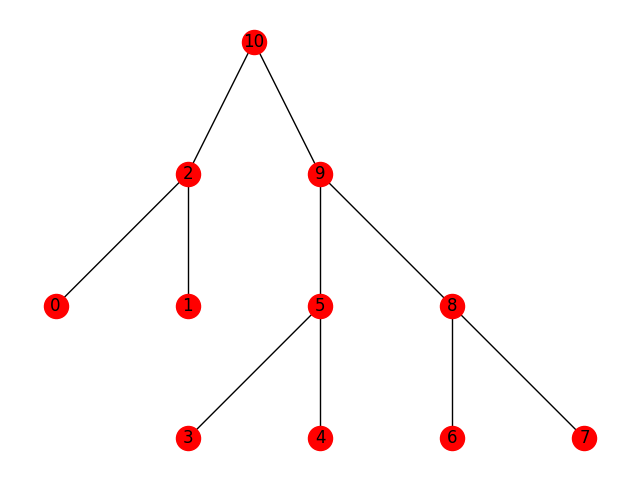
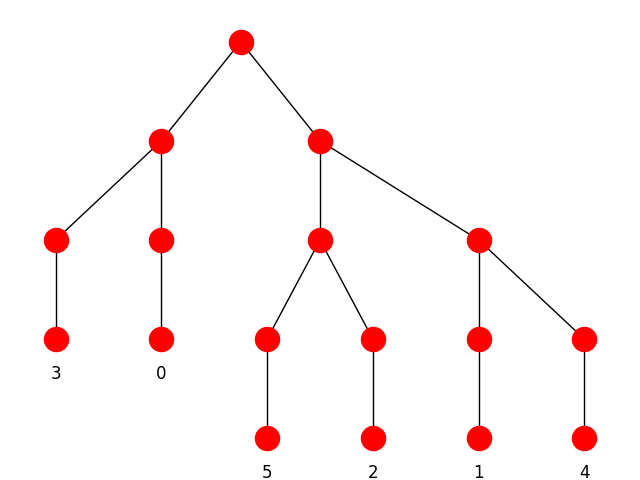
pysical modes graphically included

diff --git a/GUI/controller.py b/GUI/controller.py
@@ -38,12 +38,13 @@ class MainW(QMainWindow,
     def __init__(self, parent=None):
         super(MainW, self).__init__(parent)
         self.setupUi(self)
+
         self.setConfig = None
         self.setSystem = None
+
         self.ModelTree = None # will be object of ModelTree()
-        self.LogicalNodes = LogicalNodes() #object
-        self.View = View() #object
-        self.G = None # will be DiGraphs object
+#        self.LogicalNodes = LogicalNodes() #object
+#        self.G = None # will be DiGraphs object
 
         self.connect(self.actionLoad_Configuration, SIGNAL("activated()"), self.BrowserCon)
         self.connect(self.actionLoad_System, SIGNAL("activated()"), self.BrowserSys)
@@ -61,10 +62,12 @@ class MainW(QMainWindow,
 
             self.ModelTree = ModelTree()
 
-        self.ModelTree.getLayerMatr() #calculates list - layer_matr
-        self.G = self.LogicalNodes.Networkx(self.ModelTree.layer_matr) #connects nodes according to layer_matr
-        self.View.Display(self.G) #View method Display() generated .png file
-#        time.sleep(15)
+        self.LogicalNodes = LogicalNodes(self.ModelTree.lay_matr_mode) #object
+
+#        self.ModelTree.getLayerMatr() #calculates list - layer_matr
+#        self.G = self.LogicalNodes.Networkx(self.ModelTree.layer_matr) #connects nodes according to layer_matr
+        self.View = View(self.ModelTree.label_mode) #object
+        self.View.Display(self.LogicalNodes.G) #View method Display() generated .png file
         self.ShowPng = ShowPng()
         self.ShowPng.show()
 

diff --git a/GUI/ModelTree.py b/GUI/ModelTree.py
@@ -9,12 +9,18 @@ class ModelTree(object):
         self.layer_list = []
         self.layer_matr = []
         self.lay_matr_mode = []
+        self.label_mode = {}
+
         self.config = mctdh.controlParameters()
         self.config.initialize(self.config_file)
         self.basis = mctdh.MctdhBasis()
         self.basis.initialize(self.sys_file, self.config)
         self.node = mctdh.MctdhNode()
         self.phys = mctdh.PhysCoor()
+
+        self.getLayerMatr()
+        self.getPhysCoord()
+        self.modeToGetLayer()
 
     def getBottomlayer(self):
         """Get the bottom nodes"""
@@ -48,15 +54,20 @@ class ModelTree(object):
 
     def modeToGetLayer(self):
         """Combines layer_matr with mode_list"""
-        self.lay_matr_mode = [(l_.append(self.mode_list)) for i,l_ in enumerate(self.layer_matr)]
+        self.lay_matr_mode = [l_ + [100 + i] for i,l_ in enumerate(self.layer_matr)]
+        #concatinates two lists
+        self.label_mode = [100 + i for i in range(len(self.mode_list))]
+        self.label_mode = dict(zip(self.label_mode, self.mode_list))
+
 
 
 if __name__ == '__main__':
 
     model = ModelTree()
-    model.getLayerMatr()
-    model.getPhysCoord()
+#    model.getLayerMatr()
+#    model.getPhysCoord()
 #    model.modeToGetLayer()
     print model.mode_list
     print model.layer_matr
     print model.lay_matr_mode
+    print model.label_mode

diff --git a/GUI/LogicalNodes.py b/GUI/LogicalNodes.py
@@ -4,18 +4,29 @@ from networkx.drawing.nx_agraph import write_dot, graphviz_layout
 import matplotlib.pyplot as plt
 
 class LogicalNodes():
-    def __init__(self):
-        pass
-#        self.layer_matr = res
+    def __init__(self, layer_matr):
+        self.G = nx.DiGraph()
+        self.layer_matr = layer_matr
 #        self.G = nx.DiGraph()
-    def Networkx(self, layer_matr):
+        self.Networkx()
+
+    def Networkx(self):
         #print layer_matr
-        G=nx.DiGraph()
-        for c_ in layer_matr:
+        #self.G=nx.DiGraph()
+        for c_ in self.layer_matr:
             for b_ in c_:
-                G.add_node(b_)
+                self.G.add_node(b_)
                 l = len(c_)
                 for index, b_ in enumerate(c_):
                     if index < (l-1):
-                        G.add_edge(b_, c_[index + 1])
-        return G
+                        self.G.add_edge(b_, c_[index + 1])
+
+
+
+
+#        return G
+
+if __name__ == '__main__':
+
+    model = ModelTree()
+    logical = LogicalNodes(model.lay_matr_mode)

diff --git a/GUI/View.py b/GUI/View.py
@@ -7,10 +7,24 @@ from PyQt4 import QtGui
 
 
 class View(object):
-    def __init__(self):
-        pass
+    def __init__(self, label_mode):
+        self.label_mode = label_mode
     def Display(self, G):
         #plt.title('draw_networkx')
         pos = graphviz_layout(G, prog='dot')
-        nx.draw(G, pos, with_labels=True, arrows=False)
+        nx.draw(G, pos, with_labels=False, arrows=False)
+
+        pos_higher = {}
+        y_off = -25
+        for k, v in pos.items():
+            if k in self.label_mode:
+                pos_higher[k] = (v[0], v[1] + y_off)
+            else:
+                pos_higher[k] = (v[0], v[1])
+
+
+
+        nx.draw_networkx_labels(G, pos_higher, self.label_mode, font_size=12)
         plt.savefig('nx_test.png')
+
+        nx.get_node_attributes(G, 'color')
